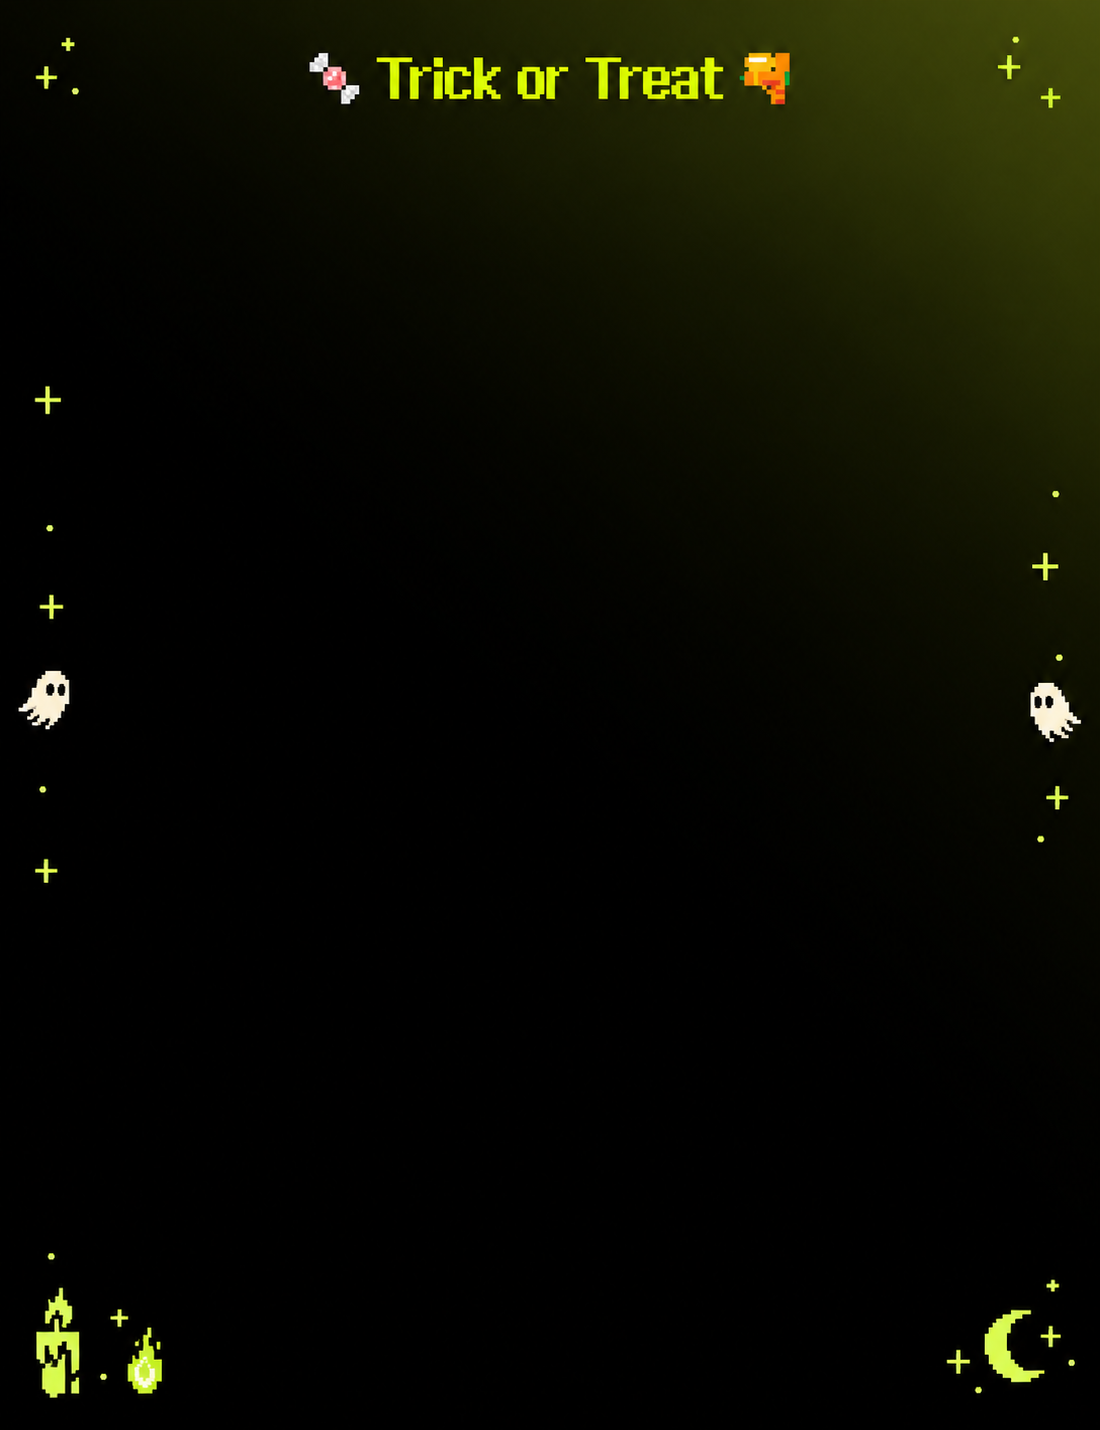
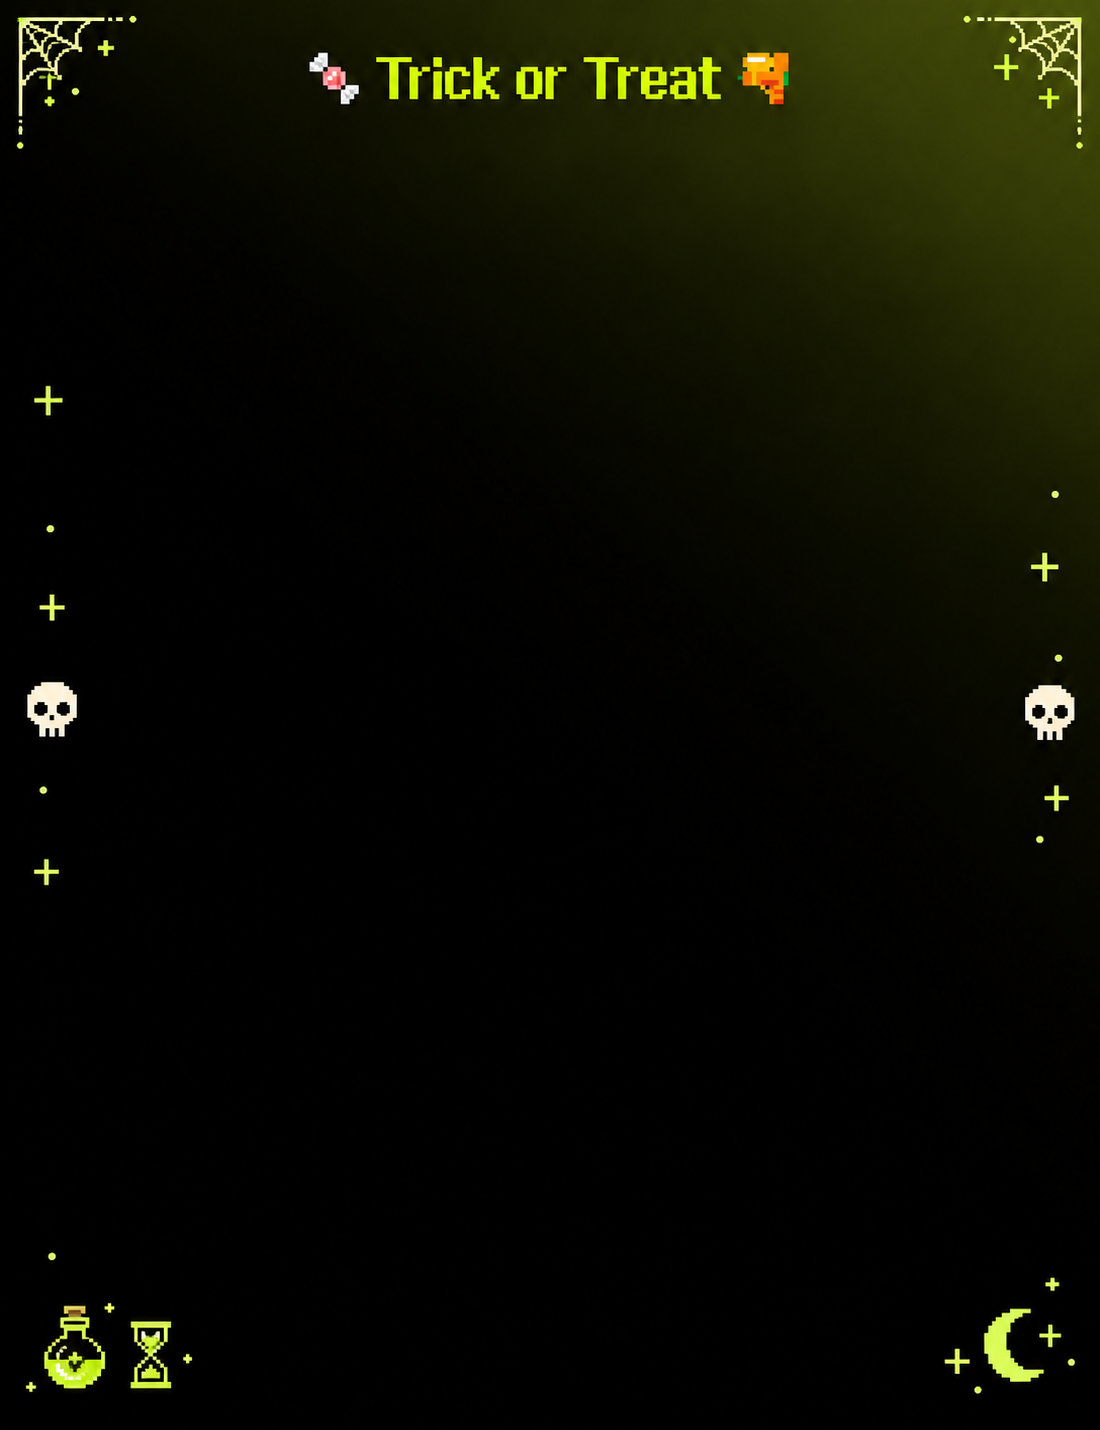
Replace lime ghosts and candles with skulls potion and hourglass

diff --git a/index.html b/index.html
@@ -1,8 +1,8 @@
 <!doctype html>
 <html lang="ko">
-<head><meta charset="UTF-8"><meta name="viewport" content="width=device-width, initial-scale=1"><meta name="theme-color" content="#1b1622"><title>홍옥필름</title><link rel="icon" type="image/x-icon" href="./assets/favicon.ico?v=20261019.5"><link rel="icon" type="image/png" sizes="32x32" href="./assets/favicon-32.png?v=20261019.5"><link rel="apple-touch-icon" sizes="180x180" href="./assets/apple-touch-icon.png?v=20261019.5"><link rel="stylesheet" href="./style.css?v=20261019.5"></head>
+<head><meta charset="UTF-8"><meta name="viewport" content="width=device-width, initial-scale=1"><meta name="theme-color" content="#1b1622"><title>홍옥필름</title><link rel="icon" type="image/x-icon" href="./assets/favicon.ico?v=20261019.6"><link rel="icon" type="image/png" sizes="32x32" href="./assets/favicon-32.png?v=20261019.6"><link rel="apple-touch-icon" sizes="180x180" href="./assets/apple-touch-icon.png?v=20261019.6"><link rel="stylesheet" href="./style.css?v=20261019.6"></head>
 <body>
-<header><a class="brand" href="./">HONGOK FILM<span>CHARACTER PHOTO BOOTH</span></a><span class="edition" aria-label="배포 버전 v2026.10.19.5">v2026.10.19.5</span></header>
+<header><a class="brand" href="./">HONGOK FILM<span>CHARACTER PHOTO BOOTH</span></a><span class="edition" aria-label="배포 버전 v2026.10.19.6">v2026.10.19.6</span></header>
 <main>
 <section class="intro"><p class="eyebrow">YOUR MOMENT, FOUR FRAMES.</p><h1>우리의 순간을,<br>조금 특별하게<span>✦</span></h1><p>캐릭터와 함께, 혹은 나만의 모습으로.<br>마음에 드는 프레임에 지금 이 순간을 담아보세요.</p></section>
 <div class="theme-picker" role="group" aria-label="화면 테마"><span>화면 테마</span><button data-theme="lime" aria-pressed="true" style="--swatch:#d5f17c">미드나잇 라임</button><button data-theme="pumpkin" aria-pressed="false" style="--swatch:#ff714c">펌킨 오렌지</button><button data-theme="pink" aria-pressed="false" style="--swatch:#f29cbe">빈티지 핑크</button></div>
@@ -26,5 +26,5 @@
 <footer><span>네 장에 담는, 우리만의 이야기</span><span>HONGOK FILM</span></footer>
 </main>
 <dialog id="camera-dialog"><div class="dialog-top"><h2>지금 이 순간을 담아볼까요?</h2><button id="close-camera" class="text-button">닫기 ✕</button></div><p id="camera-label"></p><div class="camera-stage"><video id="video" autoplay playsinline muted></video><div id="camera-guide">캐릭터 자리<br><small>옆 빈 공간에 맞춰 서 주세요.</small></div><div id="countdown" aria-live="assertive"></div></div><div class="camera-options"><label><input id="camera-mirror" type="checkbox" checked> 거울 모드</label><label>타이머 <select id="timer"><option value="3">3초</option><option value="5">5초</option><option value="0">없음</option></select></label></div><div class="actions"><button id="switch-camera" class="button">카메라 전환</button><button id="capture" class="button primary" disabled>찰칵! 📸</button></div><p id="camera-status" role="status"></p></dialog>
-<script type="module" src="./app.js?v=20261019.5"></script>
+<script type="module" src="./app.js?v=20261019.6"></script>
 </body></html>

diff --git a/app.js b/app.js
@@ -25,7 +25,7 @@ function draw() {
     const ghostLayout={
       'assets/background-01.png':{y:665,h:85,blank:750},
       'assets/background-02.png':{y:760,h:70,blank:850}
-    }[backgroundPath];
+    }[backgroundPath?.split('?')[0]];
     if(frame==='halloween'&&ghostLayout){
       // Keep each sprite fully inside the 60px gutter, at the photo row gap.
       const {y,h,blank}=ghostLayout;
@@ -131,7 +131,7 @@ window.addEventListener('pagehide',closeCamera);
 document.addEventListener('visibilitychange',()=>{if(document.hidden&&$('camera-dialog').open)$('camera-dialog').close();});
 async function init(){
   try{
-    const response=await fetch('./assets/frames.json');if(!response.ok)throw new Error('config');config=await response.json();
+    const response=await fetch('./assets/frames.json?v=20261019.6');if(!response.ok)throw new Error('config');config=await response.json();
     const paths=[...config.characters.flatMap(c=>c.poses),...Object.values(config.overlays),...Object.values(config.backgrounds??{}).flatMap(value=>value&&typeof value==='object'?Object.values(value):[value])].filter(Boolean);
     await Promise.all([...new Set(paths)].map(async path=>{try{assets.set(path,await imageFrom(new URL(path,document.baseURI).href));}catch{status('일부 프레임을 불러오지 못해 임시 디자인을 표시해요.');}}));
     config.characters.forEach((c,i)=>{const button=document.createElement('button');button.textContent=c.name;button.classList.toggle('active',i===character);button.setAttribute('aria-pressed',String(i===character));button.onclick=()=>{character=i;[...$('characters').children].forEach((b,j)=>{b.classList.toggle('active',j===i);b.setAttribute('aria-pressed',String(j===i));});draw();updateCameraLabel();};$('characters').append(button);});
